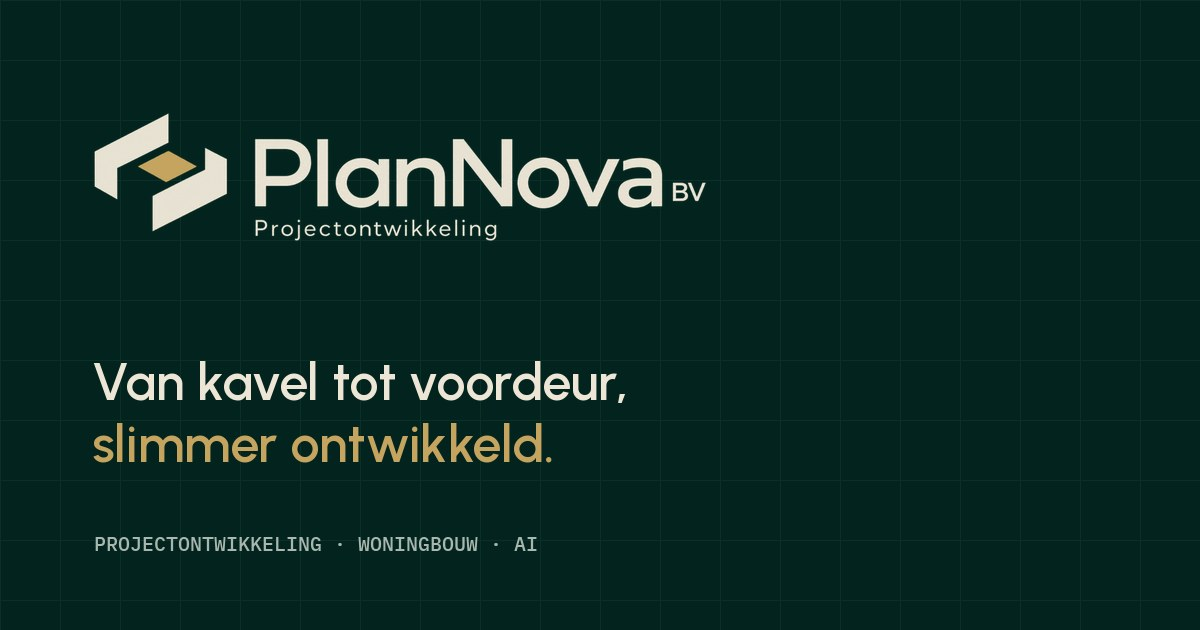
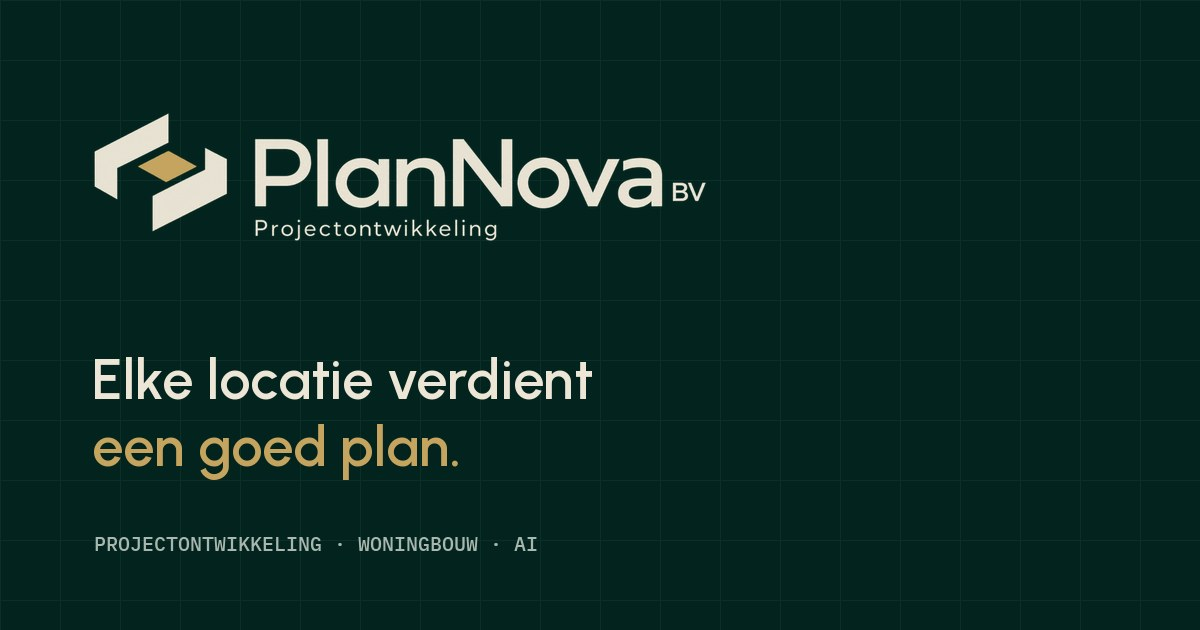
Nieuwe kop en introtekst op de homepage
Kop 'Elke locatie verdient een goed plan.', nieuwe introtekst in twee
alinea's, bijgewerkte meta-beschrijving en deelafbeelding.

Claude-Session: https://claude.ai/code/session_01AtAWfm6dSFfjxuwXzHzyzP

Changed region(s): [[0.0617, 0.6635, 0.4625, 0.7841], [0.0617, 0.573, 0.5242, 0.6333]]

diff --git a/index.html b/index.html
@@ -4,7 +4,7 @@
 <meta charset="utf-8">
 <meta name="viewport" content="width=device-width, initial-scale=1, viewport-fit=cover">
 <title>PlanNova Projectontwikkeling</title>
-<meta name="description" content="PlanNova ontwikkelt woningbouwprojecten met slimme inzet van AI: snel inzicht in wat een locatie kan worden, onderbouwde keuzes en persoonlijk contact.">
+<meta name="description" content="PlanNova ontwikkelt samen met eigenaren en partners haalbare woonprojecten. Met praktijkervaring en de slimme inzet van AI krijgen we vroeg inzicht in mogelijkheden, kosten, opbrengsten en risico’s.">
 <meta name="theme-color" content="#03241E">
 <link rel="canonical" href="https://www.planovabv.nl/">
 <link rel="icon" href="favicon.ico" sizes="any">
@@ -14,7 +14,7 @@
 <meta property="og:locale" content="nl_NL">
 <meta property="og:site_name" content="PlanNova">
 <meta property="og:title" content="PlanNova Projectontwikkeling">
-<meta property="og:description" content="Van kavel tot voordeur, slimmer ontwikkeld. Projectontwikkeling in de woningbouw met slimme inzet van AI.">
+<meta property="og:description" content="Elke locatie verdient een goed plan. PlanNova ontwikkelt haalbare woonprojecten, samen met eigenaren en partners.">
 <meta property="og:url" content="https://www.planovabv.nl/">
 <meta property="og:image" content="https://www.planovabv.nl/assets/og-image.jpg">
 <meta property="og:image:width" content="1200">
@@ -83,6 +83,7 @@ p{margin:0}
 .hero h1{font-size:clamp(42px,6.2vw,80px);font-weight:600;margin-top:20px}
 .hero h1 em{font-style:normal;color:var(--gold-deep)}
 .lede{margin-top:24px;font-size:clamp(17px,1.5vw,19px);color:var(--muted);max-width:34em}
+.lede+.lede{margin-top:14px}
 .ctas{display:flex;flex-wrap:wrap;gap:12px;margin-top:36px}
 .btn{display:inline-flex;align-items:center;gap:10px;text-decoration:none;font:600 15px/1 var(--body);padding:16px 22px;border-radius:2px;border:1px solid var(--green);transition:background .15s,color .15s}
 .btn.primary{background:var(--green);color:var(--paper)}
@@ -273,8 +274,9 @@ footer .legal{font:400 12.5px/1.6 var(--mono)}
     <div class="wrap">
       <div>
         <p class="eyebrow">Projectontwikkeling · Woningbouw</p>
-        <h1>Van kavel tot voordeur, <em>slimmer ontwikkeld.</em></h1>
-        <p class="lede">PlanNova ontwikkelt woningbouwprojecten. Met AI rekenen we verkavelingen, bouwkosten en opbrengsten snel en grondig door. Zo maken we betere keuzes, eerder in het proces, en komen er sneller goede woningen bij.</p>
+        <h1>Elke locatie verdient <em>een goed plan.</em></h1>
+        <p class="lede">PlanNova ontwikkelt samen met eigenaren en partners haalbare plannen die passen bij de omgeving en de mensen die er straks wonen.</p>
+        <p class="lede">We onderzoeken de mogelijkheden van grond en bestaand vastgoed en vertalen kansrijke ideeën naar doordachte woonprojecten. Daarbij combineren we praktijkervaring met de slimme inzet van AI. Zo krijgen we vroeg inzicht in de mogelijkheden, bouwkosten, verwachte opbrengsten en risico’s.</p>
         <div class="ctas">
           <a class="btn primary" href="#werkwijze">Bekijk onze werkwijze <span class="arr" aria-hidden="true">→</span></a>
           <a class="btn ghost" href="#contact">Neem contact op</a>
